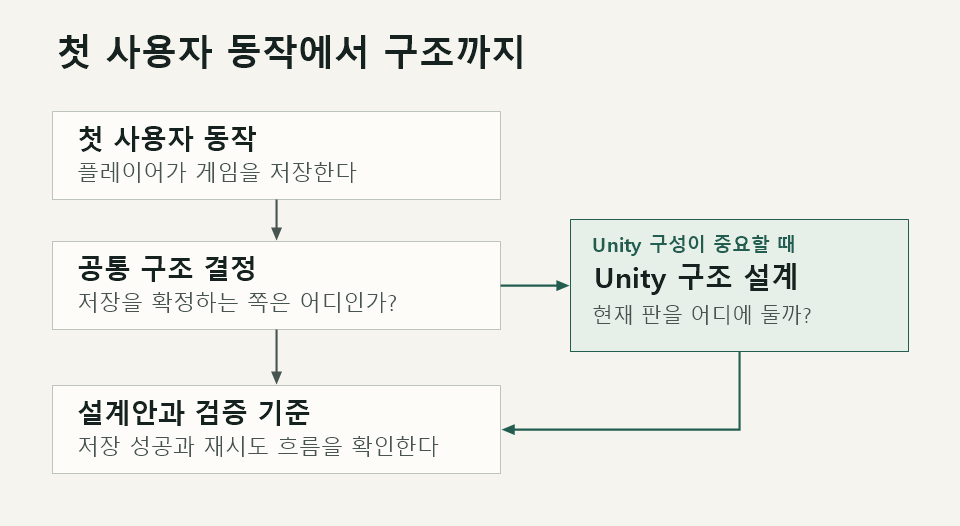
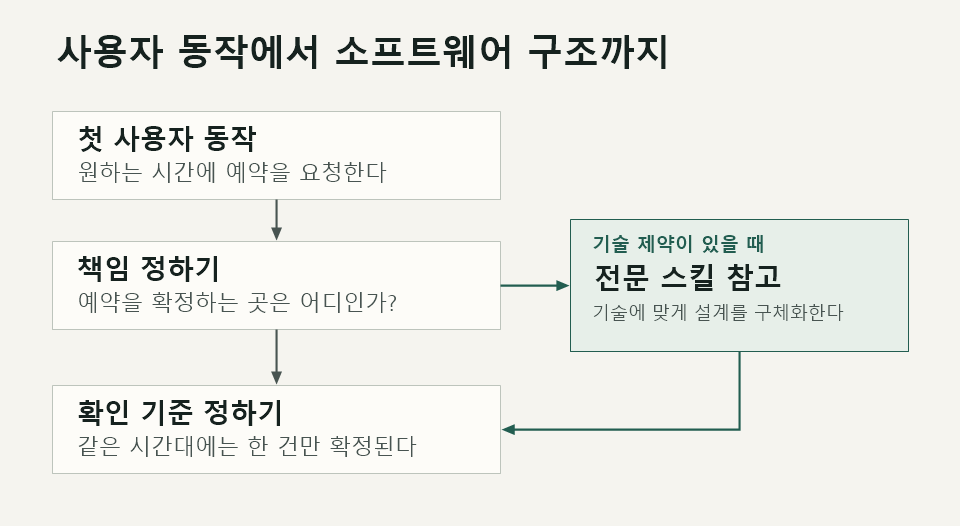
Document general architecture in English and Korean

diff --git a/README.md b/README.md
@@ -1,34 +1,31 @@
 # software-architecture
 
-새 기능을 만들기 전에 **어떤 코드가 어떤 책임을 맡을지** 정하는 Codex 스킬입니다. 사용자가 처음 끝내야 할 동작을 하나 고르고, 입력을 받아 결과를 보여주기까지 필요한 모듈과 데이터의 흐름을 설계합니다.
+[한국어](README.ko.md)
 
-![첫 사용자 동작에서 공통 설계로 이어지고, Unity 구조가 중요할 때 전문 스킬의 결정을 합쳐 실행 흐름과 검증 기준을 정하는 구조도](assets/design-flow.png)
+A Codex skill for deciding how a piece of software should be put together. Pick the first task a user needs to complete, then trace it from input to result. That makes it easier to see which part should make each decision, where data should live, and what happens if a step fails.
 
-## 어떻게 쓰나요?
+![A flowchart uses an appointment request to show how to assign responsibility, bring in specialist guidance when needed, and define what to verify.](assets/design-flow.en.png)
 
-Codex에서 스킬 이름과 설계할 프로젝트를 함께 입력합니다.
+## Try it
 
 ```text
-$software-architecture Unity 게임에 서버 저장을 붙이고 싶어요.
-첫 저장이 완료되는 흐름을 기준으로 게임과 서버가 맡을 일을 나눠 주세요.
+$software-architecture Design the first working flow for an appointment booking app.
+Show how a request becomes a confirmed booking and what happens if two people pick the same slot.
 ```
 
-이 요청에서는 플레이어가 **저장 버튼을 누르는 순간**부터 따라갑니다. 서버가 저장 결과를 확정하기로 했다면, 게임은 저장할 정보를 보내고 서버는 쓰기를 완료한 뒤 응답합니다. 저장은 끝났는데 응답만 끊길 수 있으므로, 같은 요청을 다시 받았을 때 어떻게 처리할지도 정합니다.
+Start with someone choosing a time. If a slot can hold only one booking, decide which part of the system makes the final call. The screen shows that decision. One test sends two requests for the same slot and checks that exactly one is confirmed.
 
-프로젝트에 `unity-game-architecture` 스킬이 설치돼 있고 씬 전환이 설계에 영향을 준다면, 그 스킬도 읽습니다. 예를 들어 메뉴로 돌아가도 현재 판을 이어갈 수 있어야 한다면, Unity에서 어느 객체가 판의 정보를 계속 갖고 있을지 구체화합니다.
+## What you get
 
-## 무엇을 받나요?
+- A map of the parts involved in the first user task and how they communicate
+- A decision about which part can change each piece of data and how long that data is kept
+- Checks for the normal flow and relevant failures, plus the conditions that would change the design
 
-- 첫 동작의 입력부터 결과까지 이어지는 구조와 처리 순서
-- 데이터를 바꿀 수 있는 모듈과 그 데이터가 유지되는 기간
-- 처음부터 구조에 반영할 요구와, 구조를 다시 검토할 조건
-- 정상 작동과 실패 후 복구를 확인할 기준
+Ask for implementation as well, and the skill guides Codex to connect and verify that first flow in the project. If a platform constraint affects the design, it can use an installed specialist skill for that part. See the [specialist selection guide](references/domain-routing.md).
 
-설계를 요청하면 위 내용을 정리합니다. 구현까지 요청하면 첫 동작이 실제로 실행되도록 연결하고, 그 구조를 선택한 근거가 되는 경로를 확인합니다.
+## Install
 
-## 설치
-
-Windows PowerShell에서 저장소를 Codex 스킬 폴더에 복제합니다.
+Clone the repository into your Codex skills folder. In Windows PowerShell, run the following.
 
 ```powershell
 $skillRoot = if ($env:CODEX_HOME) {
@@ -40,4 +37,4 @@ New-Item -ItemType Directory -Path $skillRoot -Force | Out-Null
 git clone https://github.com/Ddrubok/software-architecture.git (Join-Path $skillRoot 'software-architecture')
 ```
 
-[스킬 지침](SKILL.md) · [전문 스킬을 적용하는 조건](references/domain-routing.md)
+[Skill instructions](SKILL.md)

diff --git a/README.ko.md b/README.ko.md
@@ -1,0 +1,40 @@
+# software-architecture
+
+[English](README.md)
+
+소프트웨어를 어떤 구조로 만들지 정하는 Codex 스킬입니다. 사용자가 처음 완료할 동작 하나를 고르고, 입력부터 결과까지 따라갑니다. 그 과정에서 각 판단을 누가 맡는지, 데이터를 어디에 두는지, 중간에 문제가 생기면 어떻게 처리할지 정합니다.
+
+![예약 요청을 예로 들어 책임을 정하고, 필요할 때 전문 스킬의 도움을 받아 확인 기준을 만드는 구조도](assets/design-flow.png)
+
+## 사용 예시
+
+```text
+$software-architecture 예약 앱에서 첫 예약이 완료되는 흐름을 설계해줘.
+요청이 어떻게 확정되는지, 두 사람이 같은 시간을 고르면 어떻게 처리하는지 보여줘.
+```
+
+누군가 시간을 고르는 순간부터 시작합니다. 시간대 하나에 예약을 하나만 받을 수 있다면, 예약을 최종 확정할 부분을 정합니다. 화면은 그 결과를 표시합니다. 같은 시간에 두 건을 요청하고 정확히 한 건만 확정되는지 확인할 수 있습니다.
+
+## 무엇을 받나요?
+
+- 첫 사용자 동작에 필요한 구성 요소와 서로 정보를 주고받는 방식
+- 어떤 구성 요소가 데이터를 바꿀 수 있는지, 그 데이터가 얼마나 오래 유지되는지에 대한 결정
+- 정상 경로와 관련 실패 상황의 확인 기준, 구조를 다시 검토할 조건
+
+구현까지 요청하면 Codex가 첫 사용자 흐름을 프로젝트에 연결하고 확인하도록 안내합니다. 플랫폼 제약이 설계에 영향을 주면 설치된 전문 스킬을 해당 부분에 적용할 수 있습니다. [전문 스킬 선택 기준](references/domain-routing.md)
+
+## 설치
+
+저장소를 Codex 스킬 폴더에 복제합니다. Windows PowerShell에서는 아래 명령을 실행합니다.
+
+```powershell
+$skillRoot = if ($env:CODEX_HOME) {
+    Join-Path $env:CODEX_HOME 'skills'
+} else {
+    Join-Path $env:USERPROFILE '.codex/skills'
+}
+New-Item -ItemType Directory -Path $skillRoot -Force | Out-Null
+git clone https://github.com/Ddrubok/software-architecture.git (Join-Path $skillRoot 'software-architecture')
+```
+
+[스킬 지침](SKILL.md)

diff --git a/SKILL.md b/SKILL.md
@@ -1,6 +1,6 @@
 ---
 name: software-architecture
-description: 소프트웨어의 초기 아키텍처를 설계하거나 구축하고, 기존 구조를 점검한다. 새 프로젝트나 주요 변경에서 첫 사용자 흐름, 모듈과 시스템 경계, 상태 소유권과 수명, 데이터 흐름, 배포·복구 조건을 정할 때 사용한다. 기술별 구조가 설계를 좌우하면 Unity 같은 전문 스킬을 연결한다.
+description: 소프트웨어의 초기 아키텍처를 설계하거나 구축하고, 기존 구조를 점검한다. 새 프로젝트나 주요 변경에서 첫 사용자 흐름, 모듈과 시스템 경계, 상태 소유권과 수명, 데이터 흐름, 배포·복구 조건을 정할 때 사용한다. 특정 기술의 제약이 설계에 영향을 주면 관련 전문 스킬을 적용한다.
 ---
 
 # 소프트웨어 구조 설계
